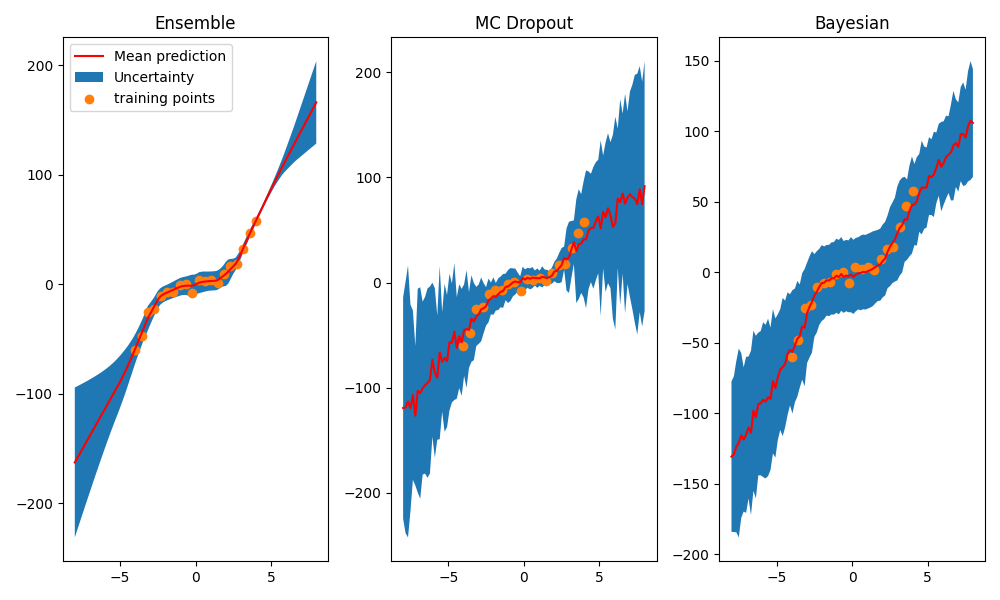
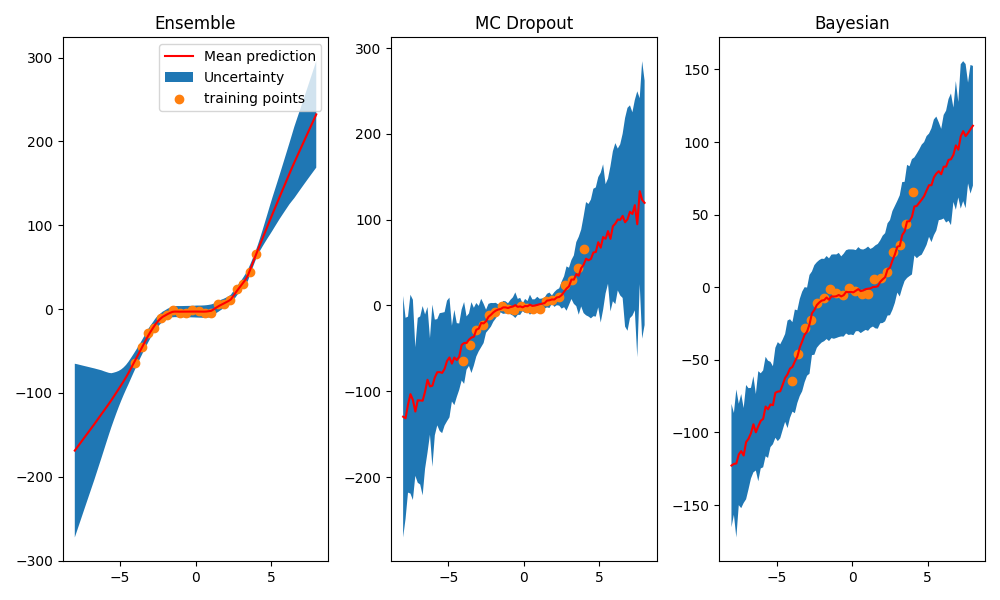
Enabled graph execution for deep ensembles, runs faster

diff --git a/ensemble.py b/ensemble.py
@@ -8,10 +8,11 @@ from util import do_inverse_norm
 
 # Set default type for compatibility between CPU/GPU
 tf.keras.backend.set_floatx('float32')
+#tf.config.run_functions_eagerly(True)
 
 class deep_ensemble():
 
-    def __init__(self, inF, outF, H, lr=1e-4,  problem='regression'):
+    def __init__(self, inF, outF, H, lr=1e-4, Nmodels=5, problem='regression'):
         self.inF= inF
         self.outF = outF
         self.H = H
@@ -26,6 +27,11 @@ class deep_ensemble():
             self.train_step = self.train_step_classification
             self.pred = self.pred_classification
             self.loss_fn = self.loss_class
+
+        self.models = []
+        self.Nmodels = Nmodels
+        for i in range(Nmodels):
+            self.models.append(self.model_fn())
         return
 
 
@@ -40,6 +46,7 @@ class deep_ensemble():
         mu = Dense(self.outF, activation='linear', kernel_initializer=init)(x)
         sigma = Dense(self.outF, activation='softplus', kernel_initializer=init)(x)
         model = keras.Model(inputs=inputs, outputs=[mu, sigma])
+        model.build(input_shape=(self.inF))
         return model
 
     def base_model_classification(self):
@@ -52,7 +59,6 @@ class deep_ensemble():
         x = Dense(self.H, activation=tf.nn.relu, kernel_initializer=init)(x)
         x = Dense(self.outF, activation='softmax', kernel_initializer=init)(x)
         model = keras.Model(inputs=inputs, outputs=x)
-
         return model
 
 
@@ -62,7 +68,7 @@ class deep_ensemble():
             self.models.append(self.model_fn())
 
         return
-
+    @tf.function
     def loss_reg(self, model, xtrain, ytrain, training):
         # NLL loss
         mu, sigma = model(xtrain, training=training)
@@ -73,17 +79,20 @@ class deep_ensemble():
             NLL = NLL +   tf.math.log(var[...,i])*0.5 + \
                     0.5*tf.math.divide(tf.math.square(ytrain[...,i]-mu[...,i]),var[...,i])  
         return tf.reduce_mean(NLL,axis=-1)
+    @tf.function
     def loss_class(self, model, xtrain, ytrain, training):
         # 
         ypred = model(xtrain, training=training)
         loss_fn = tf.keras.losses.CategoricalCrossentropy()
         return loss_fn(ytrain, ypred)
+    @tf.function
     def train_step_regression(self, model, xtrain, ytrain):
         with tf.GradientTape() as tape:
             loss = self.loss_fn(model,xtrain, ytrain, True)
         grad = tape.gradient(loss, model.trainable_variables)
         self.optimizer.apply_gradients(zip(grad, model.trainable_variables))
         return loss
+    @tf.function
     def train_step_classification(self, model, xtrain, ytrain):
         with tf.GradientTape() as tape:
             loss = self.loss_fn(model, xtrain, ytrain, True)
@@ -95,6 +104,10 @@ class deep_ensemble():
         train_dataset = tf.data.Dataset.from_tensor_slices((xtrain.astype(np.float32), ytrain.astype(np.float32)))
         train_dataset = train_dataset.shuffle(buffer_size=xtrain.shape[0], reshuffle_each_iteration=True).batch(batch_size)
         self.optimizer = tf.keras.optimizers.Adam(self.lr, beta_1=0.9, beta_2=0.999)
+        grad_vars = model.trainable_weights
+        zero_grads = [tf.zeros_like(w) for w in grad_vars]
+        self.optimizer.apply_gradients(zip(zero_grads, grad_vars)) 
+         
         if(validation_data):
             validation_data[0] = validation_data[0].astype(np.float32)
             validation_data[1] = validation_data[1].astype(np.float32)
@@ -115,12 +128,12 @@ class deep_ensemble():
 
         return train_loss, valid_loss
 
-    def train_ensemble(self, N, xtrain, ytrain, epochs, batch_size, validation_data=None):
-        self.models = []
+    def train_ensemble(self, xtrain, ytrain, epochs, batch_size, validation_data=None):
+        #self.models = []
         hist = []
         hist_valid = []
-        for i in range(N):
-            self.models.append(self.model_fn())
+        for i in range(self.Nmodels):
+            #self.models.append(self.model_fn())
             h1, h2 = self.train(self.models[i], batch_size, epochs, xtrain, ytrain, validation_data)
             hist.append(h1)
             hist_valid.append(h2)

diff --git a/example.py b/example.py
@@ -3,7 +3,6 @@ from ensemble import deep_ensemble
 from MC_dropout import MC_dropout
 from Bayesian_NN import Bayesian_net 
 from util import do_normalization
-
 import matplotlib.pyplot as plt
 
 def get_toy_dataset(Npts):
@@ -27,10 +26,9 @@ if __name__ == '__main__':
     yN = yN.reshape(-1,1)
     xtestN = xtestN.reshape(-1,1)
     # deep ensemble
-    ensemble = deep_ensemble(1,1,10, 5e-3)
-    hist, _ = ensemble.train_ensemble(5, xN, yN, 200, 32)
+    ensemble = deep_ensemble(1,1,10, 5e-3, 5)
+    hist, _ = ensemble.train_ensemble(xN, yN, 200, 32)
     _, mean_ensemble, std_ensemble = ensemble.predict(xtestN, y, 'std')
-
 
     # MC dropout
 
